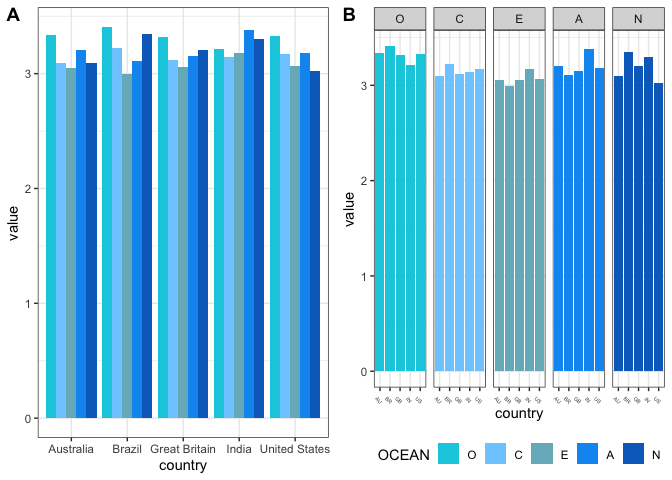
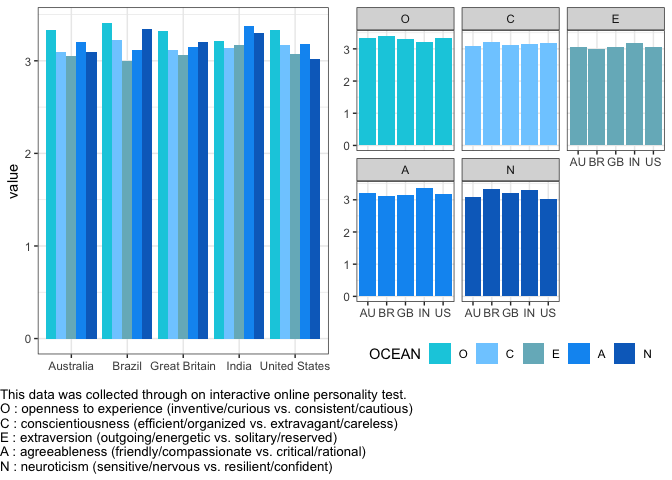
solution version 3.0 donnerstag

diff --git a/Projects/HenningLa7/elizavetashch.md b/Projects/HenningLa7/elizavetashch.md
@@ -14,13 +14,14 @@
           A = mean(mean(c_across(A1:A10))), 
           N = mean(mean(c_across(N1:N10)))
           ) %>%
-        pivot_longer(cols = 2:6, names_to = "OCEAN")
+        pivot_longer(cols = 2:6, names_to = "OCEAN") %>%
+        mutate(OCEAN = factor(OCEAN, levels=c("O", "C", "E", "A", "N")))
 
     print(df1)
 
     ## # A tibble: 25 × 3
     ##    country OCEAN value
-    ##    <chr>   <chr> <dbl>
+    ##    <chr>   <fct> <dbl>
     ##  1 AU      O      3.34
     ##  2 AU      C      3.10
     ##  3 AU      E      3.05
@@ -34,7 +35,5 @@
     ## # … with 15 more rows
 
 ## Final Graph
-
-    plot_grid(p_dodged_bars,p_letter, labels = c('A', 'B'))
 
 ![](elizavetashch_files/figure-markdown_strict/unnamed-chunk-4-1.png)
